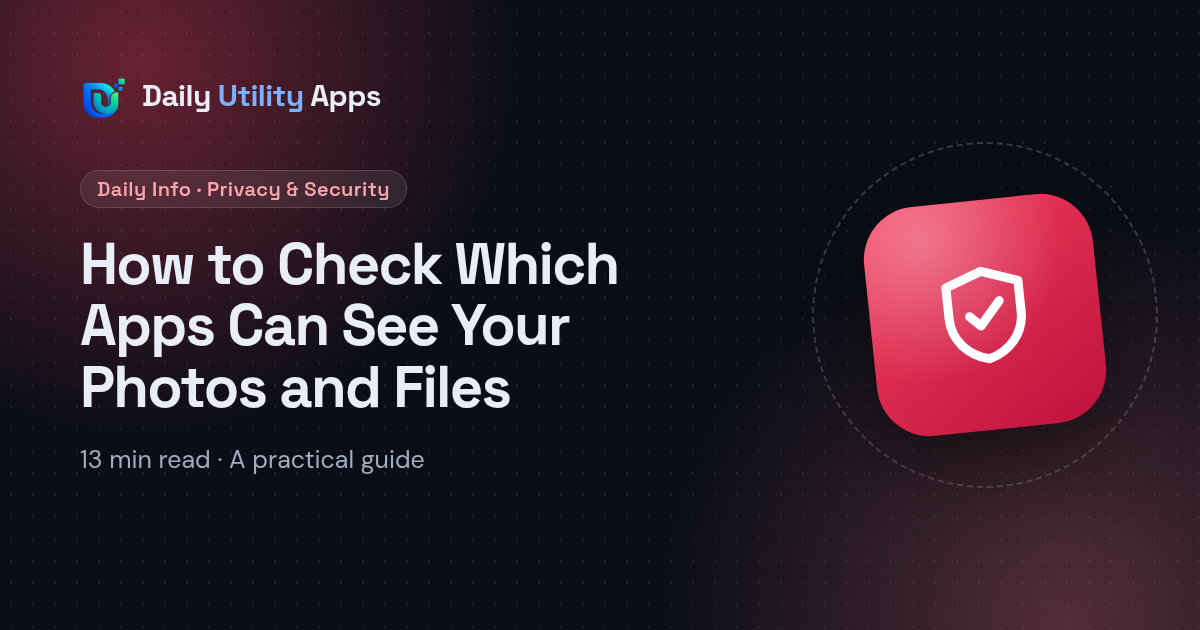
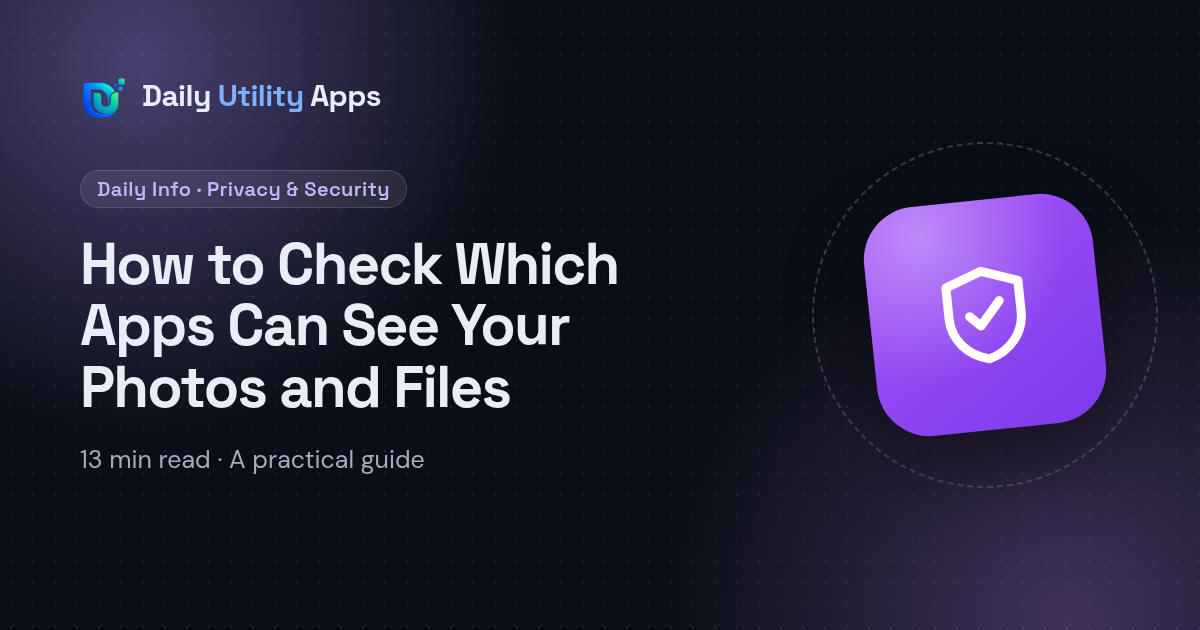
Colour: one system across the site
- Hero glows use shades of the page's own colour; only home, Daily
  Info, legal and 404 keep the logo's green and cyan.
- Each tone has one fixed illustration gradient (--tone-gradient), the
  same as its app tile, used for banners and icon chips in both themes
  instead of a different pastel blend in dark mode.
- Numbered badges are solid --brand everywhere. Article step numbers
  no longer put white text on a pale gradient in dark mode.
- Photos & Media takes Photo Recover's rose; Privacy & Security takes
  violet.
- Share images regenerated to match.

Claude-Session: https://claude.ai/code/session_01M7AqB68kCuEzMyQnHXTEoC

Changed region(s): [[0.0, 0.0, 0.3392, 0.4825], [0.7092, 0.3016, 0.925, 0.6937], [0.7708, 0.7841, 1.0, 1.0]]

diff --git a/assets/css/shell.css b/assets/css/shell.css
@@ -41,6 +41,18 @@
   --accent: #06b6d4;
   --glass: rgba(255, 255, 255, 0.94);
 
+  /* Illustration colours (see "App tones" below): app tiles, guide
+     banners and icon chips. Fixed in both themes, like the store
+     badges, and always carry a white glyph. Blue is the default. */
+  --tone-light: #3b82f6;
+  --tone-deep: #0b5fe8;
+  --tone-gradient: linear-gradient(145deg, #3b82f6, #0b5fe8);
+  /* Hero glow, second and third blobs (the first is --brand). Outside
+     a tone these are the logo's green and cyan; each tone swaps in
+     lighter shades of its own colour. */
+  --glow-b: var(--brand-2);
+  --glow-c: var(--accent);
+
   --shadow-sm: 0 1px 2px rgba(12, 20, 36, 0.06), 0 1px 3px rgba(12, 20, 36, 0.08);
   --shadow-md: 0 4px 12px rgba(12, 20, 36, 0.08), 0 12px 32px rgba(12, 20, 36, 0.08);
   --shadow-lg: 0 12px 24px rgba(12, 20, 36, 0.1), 0 32px 64px rgba(12, 20, 36, 0.12);
@@ -993,14 +1005,14 @@ h3, .h3 {
   left: 82%;
   top: 70%;
   width: max(60%, 26rem);
-  background: radial-gradient(circle closest-side, color-mix(in srgb, var(--brand-2) 45%, transparent), color-mix(in srgb, var(--brand-2) 18%, transparent) 50%, transparent);
+  background: radial-gradient(circle closest-side, color-mix(in srgb, var(--glow-b) 45%, transparent), color-mix(in srgb, var(--glow-b) 18%, transparent) 50%, transparent);
   animation: heroGlowDriftB 23s ease-in-out infinite;
 }
 .hero-glow-blob--c {
   left: 63%;
   top: 15%;
   width: max(40%, 18rem);
-  background: radial-gradient(circle closest-side, color-mix(in srgb, var(--accent) 35%, transparent), color-mix(in srgb, var(--accent) 14%, transparent) 50%, transparent);
+  background: radial-gradient(circle closest-side, color-mix(in srgb, var(--glow-c) 35%, transparent), color-mix(in srgb, var(--glow-c) 14%, transparent) 50%, transparent);
   animation: heroGlowDriftC 27s ease-in-out infinite;
 }
 
@@ -1025,60 +1037,73 @@ h3, .h3 {
 }
 
 /* ---------- App tones ----------
-   Each app has its own colour identity (apps.yml `tone`). A .tone-*
-   class re-points the brand tokens inside its scope, so every component
-   that already uses --brand / --brand-text / --brand-soft (buttons,
-   eyebrows, links, step numbers, icon tiles, trust band, CTA card) takes
-   the app's colour with no per-component rules. The header and footer
-   sit outside any tone scope and stay brand blue. Blue is the brand
-   itself, so .tone-blue needs no overrides.
+   Each app has its own colour (apps.yml `tone`), and each Daily Info
+   topic borrows the colour of the app it relates to (categories.yml).
+   A .tone-* class re-points the colour tokens inside its scope, so every
+   component takes the tone with no per-component rules. The header and
+   footer sit outside any tone scope and stay brand blue.
 
-   All pairs computed against WCAG AA 4.5:1 in both themes (29 Sep):
+   One colour family per tone, used in three roles, so the same kind of
+   thing always looks the same:
+   - Controls and markers (buttons, links, numbered badges, check
+     bullets): --brand / --on-brand / --brand-text / --brand-soft. These
+     change with the theme: deep in light, lighter in dark.
+   - Illustrations (app tiles, guide banners, icon chips): --tone-gradient
+     with a white glyph, or --tone-deep for a glyph on a white disc.
+     These stay the same in both themes, like a printed object.
+   - Hero glow: --brand plus --glow-b / --glow-c, lighter shades of the
+     same colour. Only pages outside a tone (home, Daily Info, legal,
+     404) show the logo's green and cyan.
+
+   All text pairs computed against WCAG AA 4.5:1 in both themes (29 Sep):
    on-brand on brand/hover, brand-text on bg / bg-alt / surface /
    brand-soft, and body text on brand-soft -- lowest is teal
-   brand-text on its soft tint at 4.85:1. */
-/* Blue is the brand's own colour: .tone-blue restores it inside another
-   tone (e.g. the flagship's card inside a teal article). */
+   brand-text on its soft tint at 4.85:1. White glyphs on every
+   --tone-gradient stop are 3:1 or better (see App tiles). */
 .tone-blue {
   --brand: #0b5fe8; --brand-hover: #0848b8; --on-brand: #ffffff;
   --brand-soft: #e8f0ff; --brand-text: #0a52c9;
-  --brand-gradient: linear-gradient(135deg, #0b5fe8 0%, #0f9ed6 45%, #16b871 100%);
+  --tone-light: #3b82f6; --tone-deep: #0b5fe8;
+  --tone-gradient: linear-gradient(145deg, #3b82f6, #0b5fe8);
+  --glow-b: #60a5fa; --glow-c: #93c5fd;
 }
 .tone-violet {
   --brand: #7c3aed; --brand-hover: #6d28d9; --on-brand: #ffffff;
   --brand-soft: #f3edff; --brand-text: #6d28d9;
-  --brand-gradient: linear-gradient(135deg, #7c3aed 0%, #a855f7 55%, #c084fc 100%);
+  --tone-light: #a855f7; --tone-deep: #7c3aed;
+  --tone-gradient: linear-gradient(145deg, #a855f7, #7c3aed);
+  --glow-b: #c084fc; --glow-c: #d8b4fe;
 }
 .tone-teal {
   --brand: #0f766e; --brand-hover: #115e59; --on-brand: #ffffff;
   --brand-soft: #e3f5f2; --brand-text: #0f766e;
-  --brand-gradient: linear-gradient(135deg, #0f766e 0%, #0d9488 50%, #2dd4bf 100%);
+  --tone-light: #0d9488; --tone-deep: #0f766e;
+  --tone-gradient: linear-gradient(145deg, #0d9488, #0f766e);
+  --glow-b: #2dd4bf; --glow-c: #5eead4;
 }
 .tone-rose {
   --brand: #be123c; --brand-hover: #9f1239; --on-brand: #ffffff;
   --brand-soft: #fdecef; --brand-text: #be123c;
-  --brand-gradient: linear-gradient(135deg, #be123c 0%, #e11d48 50%, #fb7185 100%);
+  --tone-light: #f43f5e; --tone-deep: #be123c;
+  --tone-gradient: linear-gradient(145deg, #f43f5e, #be123c);
+  --glow-b: #fb7185; --glow-c: #fda4af;
 }
 @media (prefers-color-scheme: dark) {
   .tone-blue {
     --brand: #5b9bff; --brand-hover: #7db0ff; --on-brand: #06101f;
     --brand-soft: #16233b; --brand-text: #7db0ff;
-    --brand-gradient: linear-gradient(135deg, #5b9bff 0%, #43b8f0 45%, #2ce68c 100%);
   }
   .tone-violet {
     --brand: #a78bfa; --brand-hover: #c4b5fd; --on-brand: #0a0e16;
     --brand-soft: #231b3b; --brand-text: #c4b5fd;
-    --brand-gradient: linear-gradient(135deg, #7c3aed 0%, #a855f7 55%, #c4b5fd 100%);
   }
   .tone-teal {
     --brand: #2dd4bf; --brand-hover: #5eead4; --on-brand: #0a0e16;
     --brand-soft: #0d2a29; --brand-text: #5eead4;
-    --brand-gradient: linear-gradient(135deg, #0f766e 0%, #14b8a6 50%, #5eead4 100%);
   }
   .tone-rose {
     --brand: #fb7185; --brand-hover: #fda4af; --on-brand: #0a0e16;
     --brand-soft: #361621; --brand-text: #fda4af;
-    --brand-gradient: linear-gradient(135deg, #be123c 0%, #f43f5e 50%, #fda4af 100%);
   }
 }
 
@@ -1171,7 +1196,7 @@ h3, .h3 {
   display: grid;
   place-items: center;
   height: 8.5rem;
-  background: var(--brand-gradient);
+  background: var(--tone-gradient);
   overflow: hidden;
 }
 .post-card-banner::before {
@@ -1193,13 +1218,9 @@ h3, .h3 {
   box-shadow: 0 0 0 8px rgba(255, 255, 255, 0.2), 0 10px 24px rgba(6, 16, 31, 0.22);
   transition: transform 0.3s var(--ease-out);
 }
-/* The disc is white in both themes, so the glyph uses each tone's
-   light-theme colour (all >= 5.4:1 on white) rather than the dark
-   theme's paler --brand. */
-.post-card-glyph { color: #0b5fe8; }
-.tone-violet .post-card-glyph { color: #7c3aed; }
-.tone-teal .post-card-glyph { color: #0f766e; }
-.tone-rose .post-card-glyph { color: #be123c; }
+/* The disc is white in both themes, so the glyph uses the tone's fixed
+   --tone-deep (all >= 5.4:1 on white) rather than the theme's --brand. */
+.post-card-glyph { color: var(--tone-deep); }
 .post-card-glyph svg { width: 50%; height: 50%; }
 .post-card:hover .post-card-glyph { transform: scale(1.06); }
 

diff --git a/assets/css/pages/post.css b/assets/css/pages/post.css
@@ -21,7 +21,7 @@
     right: 0;
     z-index: 49;
     height: 3px;
-    background: var(--brand-gradient);
+    background: var(--brand);
     transform-origin: 0 50%;
     transform: scaleX(0);
     animation: post-progress linear both;
@@ -122,7 +122,7 @@
   width: 1.9rem;
   height: 1.9rem;
   border-radius: 50%;
-  background: var(--brand-gradient);
+  background: var(--tone-gradient);
   color: #fff;
 }
 .post-byline-mark svg { width: 1rem; height: 1rem; }
@@ -148,7 +148,7 @@
   max-height: 22rem;
   width: 100%;
   border-radius: 1.75rem;
-  background: var(--brand-gradient);
+  background: var(--tone-gradient);
   box-shadow: var(--shadow-lg);
   overflow: hidden;
   isolation: isolate;
@@ -187,14 +187,11 @@
   border-radius: 1.6rem;
   background: rgba(255, 255, 255, 0.96);
   box-shadow: 0 0 0 12px rgba(255, 255, 255, 0.16), 0 18px 40px rgba(6, 16, 31, 0.28);
-  color: #0b5fe8;
+  /* The disc is white in both themes, so the glyph uses the tone's
+     fixed --tone-deep (all >= 5.4:1 on white). */
+  color: var(--tone-deep);
   transform: rotate(-6deg);
 }
-/* The disc is white in both themes, so its glyph keeps each tone's
-   light-theme value (all >= 4.5:1 on white). */
-.tone-violet .post-banner-glyph { color: #7c3aed; }
-.tone-teal .post-banner-glyph { color: #0f766e; }
-.tone-rose .post-banner-glyph { color: #be123c; }
 .post-banner-glyph svg { width: 52%; height: 52%; }
 
 .post-stats {
@@ -355,11 +352,10 @@
   width: 2.75rem;
   height: 2.75rem;
   border-radius: 0.9rem;
-  background: var(--brand-gradient);
-  color: #fff;
+  background: var(--brand);
+  color: var(--on-brand);
   font: 700 1.125rem/1 var(--font-heading);
   box-shadow: 0 8px 18px -8px color-mix(in srgb, var(--brand) 70%, transparent);
-  text-shadow: 0 1px 2px rgba(0, 0, 0, 0.25);
 }
 /* The rail between numbered steps. */
 .post-body--steps .post-section + .post-section::before {

diff --git a/assets/css/pages/blog-hub.css b/assets/css/pages/blog-hub.css
@@ -91,7 +91,7 @@
   display: grid;
   place-items: center;
   height: clamp(9rem, 18vw, 12rem);
-  background: var(--brand-gradient);
+  background: var(--tone-gradient);
   overflow: hidden;
 }
 .hub-featured-banner::before {
@@ -182,9 +182,9 @@ a.topic-card:active { transform: scale(0.985); transition-duration: 0.1s; }
   height: 3rem;
   flex-shrink: 0;
   border-radius: var(--radius);
-  background: var(--brand);
-  color: var(--on-brand);
-  box-shadow: 0 6px 16px color-mix(in srgb, var(--brand) 30%, transparent);
+  background: var(--tone-gradient);
+  color: #fff;
+  box-shadow: 0 6px 16px color-mix(in srgb, var(--tone-deep) 30%, transparent);
 }
 .topic-icon svg { width: 1.5rem; height: 1.5rem; }
 .topic-card--soon .topic-icon { background: var(--brand-soft); color: var(--brand-text); box-shadow: none; }

diff --git a/assets/css/pages/index.css b/assets/css/pages/index.css
@@ -567,7 +567,7 @@
   z-index: -1;
   background:
     radial-gradient(circle at 0% 0%, color-mix(in srgb, var(--brand) 22%, transparent), transparent 40%),
-    radial-gradient(circle at 100% 100%, color-mix(in srgb, var(--brand-2) 22%, transparent), transparent 40%);
+    radial-gradient(circle at 100% 100%, color-mix(in srgb, var(--glow-b) 22%, transparent), transparent 40%);
 }
 .home-cta .section-sub { max-width: 38rem; margin-top: 0; }
 .home-cta .store-badges { justify-content: center; }

diff --git a/assets/css/pages/app.css b/assets/css/pages/app.css
@@ -338,9 +338,9 @@
   height: 3rem;
   margin-bottom: 1.25rem;
   border-radius: 0.95rem;
-  background: var(--brand-gradient);
+  background: var(--tone-gradient);
   color: #fff;
-  box-shadow: 0 10px 22px -12px color-mix(in srgb, var(--brand) 80%, transparent);
+  box-shadow: 0 10px 22px -12px color-mix(in srgb, var(--tone-deep) 80%, transparent);
 }
 .moment-icon svg { width: 1.4rem; height: 1.4rem; }
 .moment h3 { font-size: 1.125rem; }

diff --git a/STATUS.md b/STATUS.md
@@ -1313,6 +1313,51 @@ them repeats. User asked for a professional overhaul with at least
   After the fixes, axe is clean on all 16 pages in both themes at 1440
   and 390, and every internal link and anchor on the site resolves.
 
+## 5n. One colour system across the site (1 Oct)
+
+User: "we need to have consistent colour theme, its kinda messed up".
+An audit of every colour in the CSS found five inconsistencies:
+
+- **Hero glows mixed colour families.** Every hero drew the logo's green
+  and cyan next to the page's own tone, so a violet page glowed violet,
+  cyan and green at once.
+- **The tone gradients were built differently.** Blue swept blue to cyan
+  to green; violet, teal and rose stayed in one colour. In dark mode they
+  switched to pale pastels (blue went light blue to mint), so banners
+  glared on the dark page, while app tiles kept fixed colours.
+- **Numbered badges had two treatments.** App pages and the homepage
+  used solid --brand; article step numbers used the gradient with white
+  text, which in dark mode sat on a pale gradient (about 2.8:1 at the
+  blue end). That broke the rule in section 3 that the gradient never
+  goes behind text.
+- **Icon chips had two treatments.** Topic icons followed the theme
+  (pastel with a dark glyph in dark mode); app-page moment icons used
+  the gradient with a white glyph.
+- **Topic colours borrowed the wrong apps.** Photos & Media was violet,
+  the Document Reader colour, while the photo app (Photo Recover) is rose.
+
+The rule now (shell.css "App tones" has the full version): one colour
+family per tone, in three roles.
+
+- **Controls and markers** (buttons, links, numbered badges, check
+  bullets, the reading-progress bar) use --brand / --on-brand. They
+  change with the theme and are contrast-checked.
+- **Illustrations** (app tiles, guide banners, topic and moment icon
+  chips, the byline mark) use the new --tone-gradient with a white
+  glyph, or --tone-deep for a glyph on a white disc. They're the same
+  in both themes, and every stop is the tile's own value.
+- **Hero glows** use --brand plus --glow-b / --glow-c, lighter shades of
+  the same colour. Only pages outside a tone (home, Daily Info, legal,
+  404) keep the logo's green and cyan; --brand-gradient is now used
+  only by the 404 numeral.
+- **Topic colours** follow the app: Backup & Storage blue, Switching
+  Phones teal, Photos & Media rose (was violet), Privacy & Security
+  violet (was rose; no app of its own).
+
+The 11 share images for apps and articles were regenerated with the same
+glow colours (the hub's keeps the logo colours). The full suite passes,
+and axe is clean on all 16 pages in both themes at 1440 and 390.
+
 ## 6. SEO and routing
 
 **URLs**
